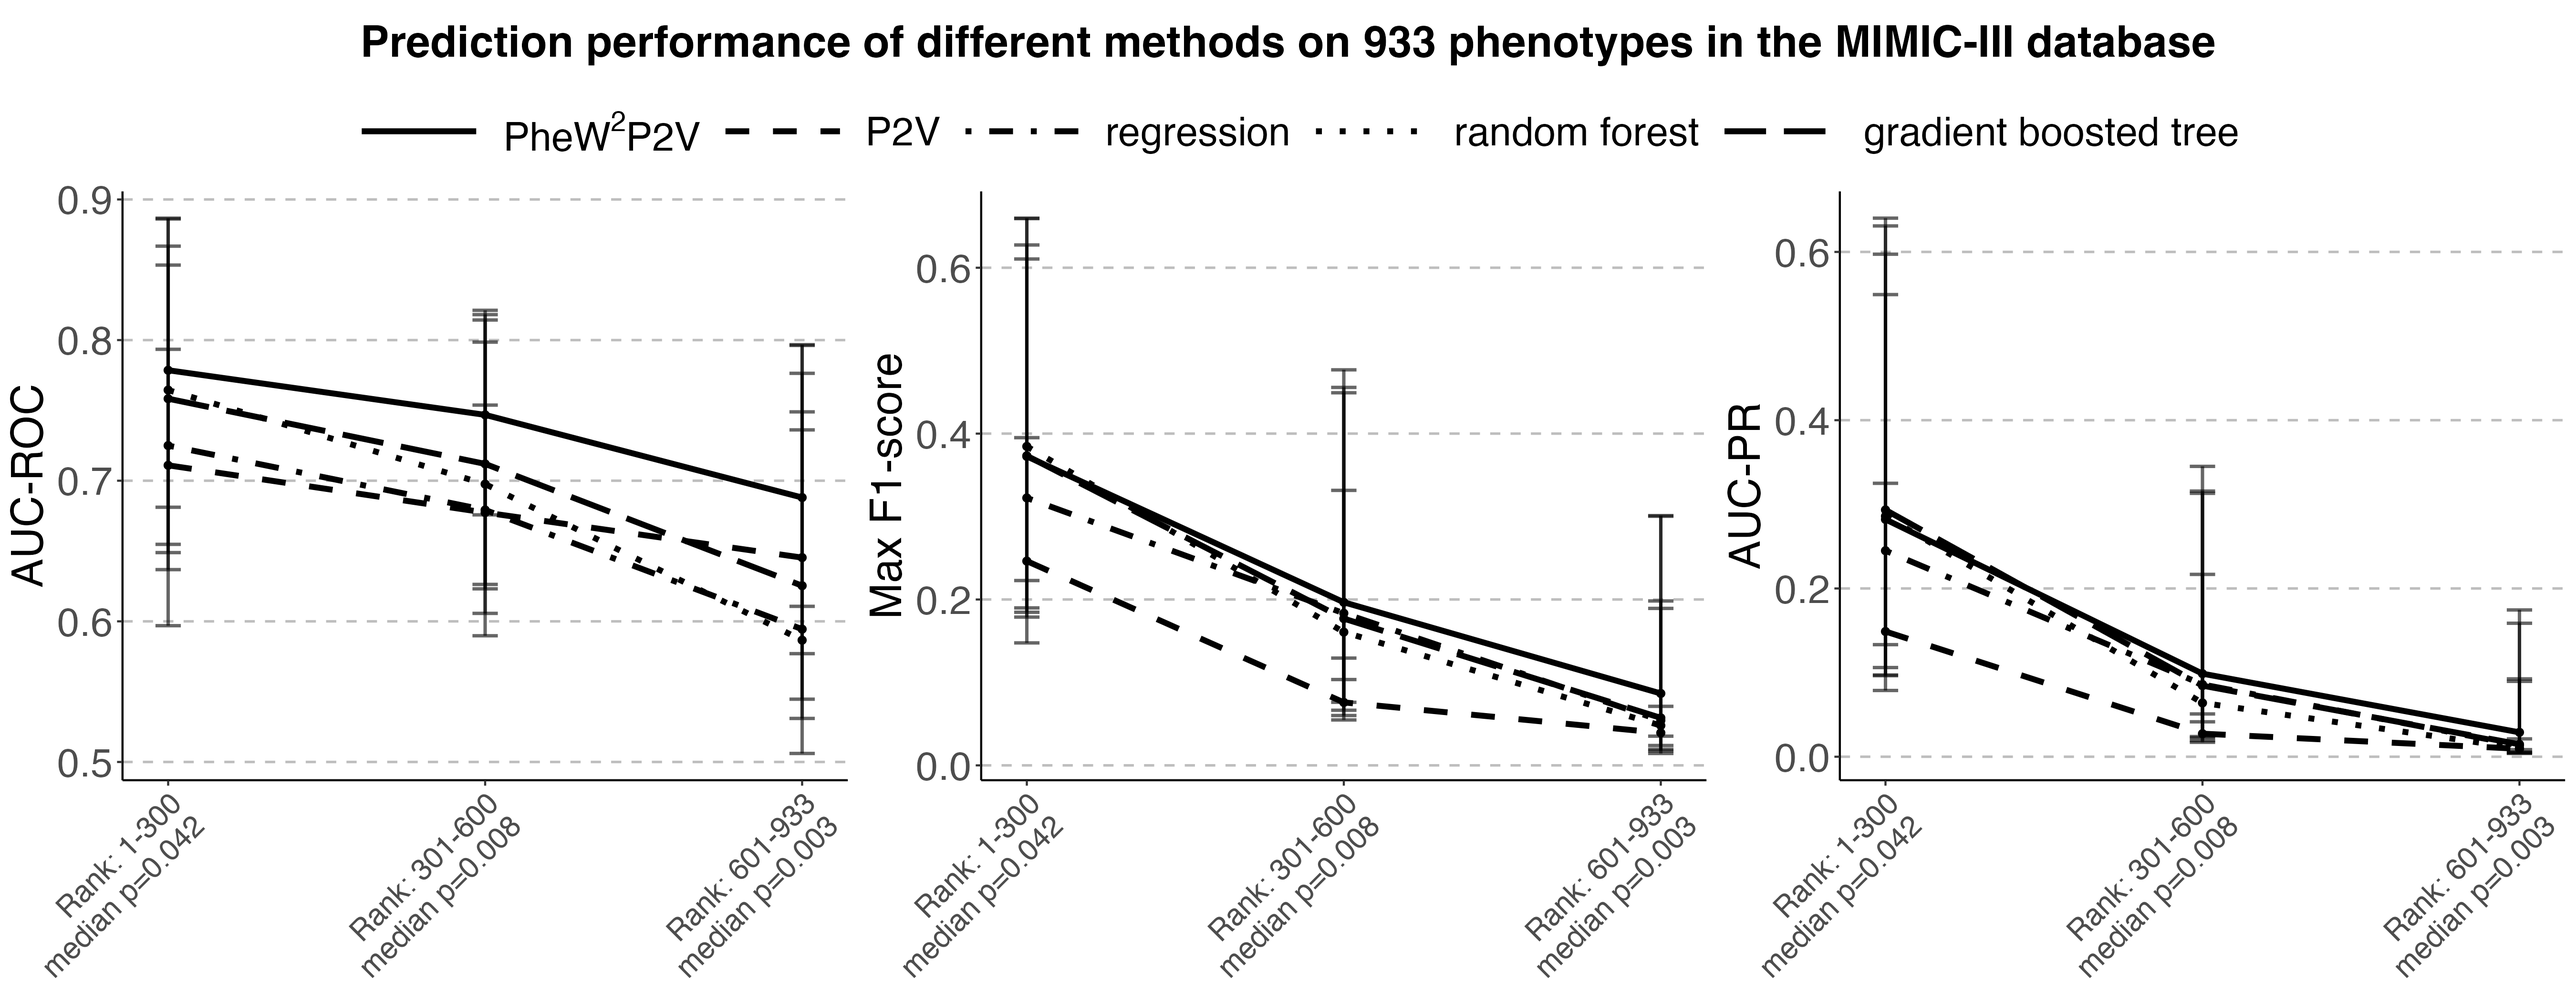
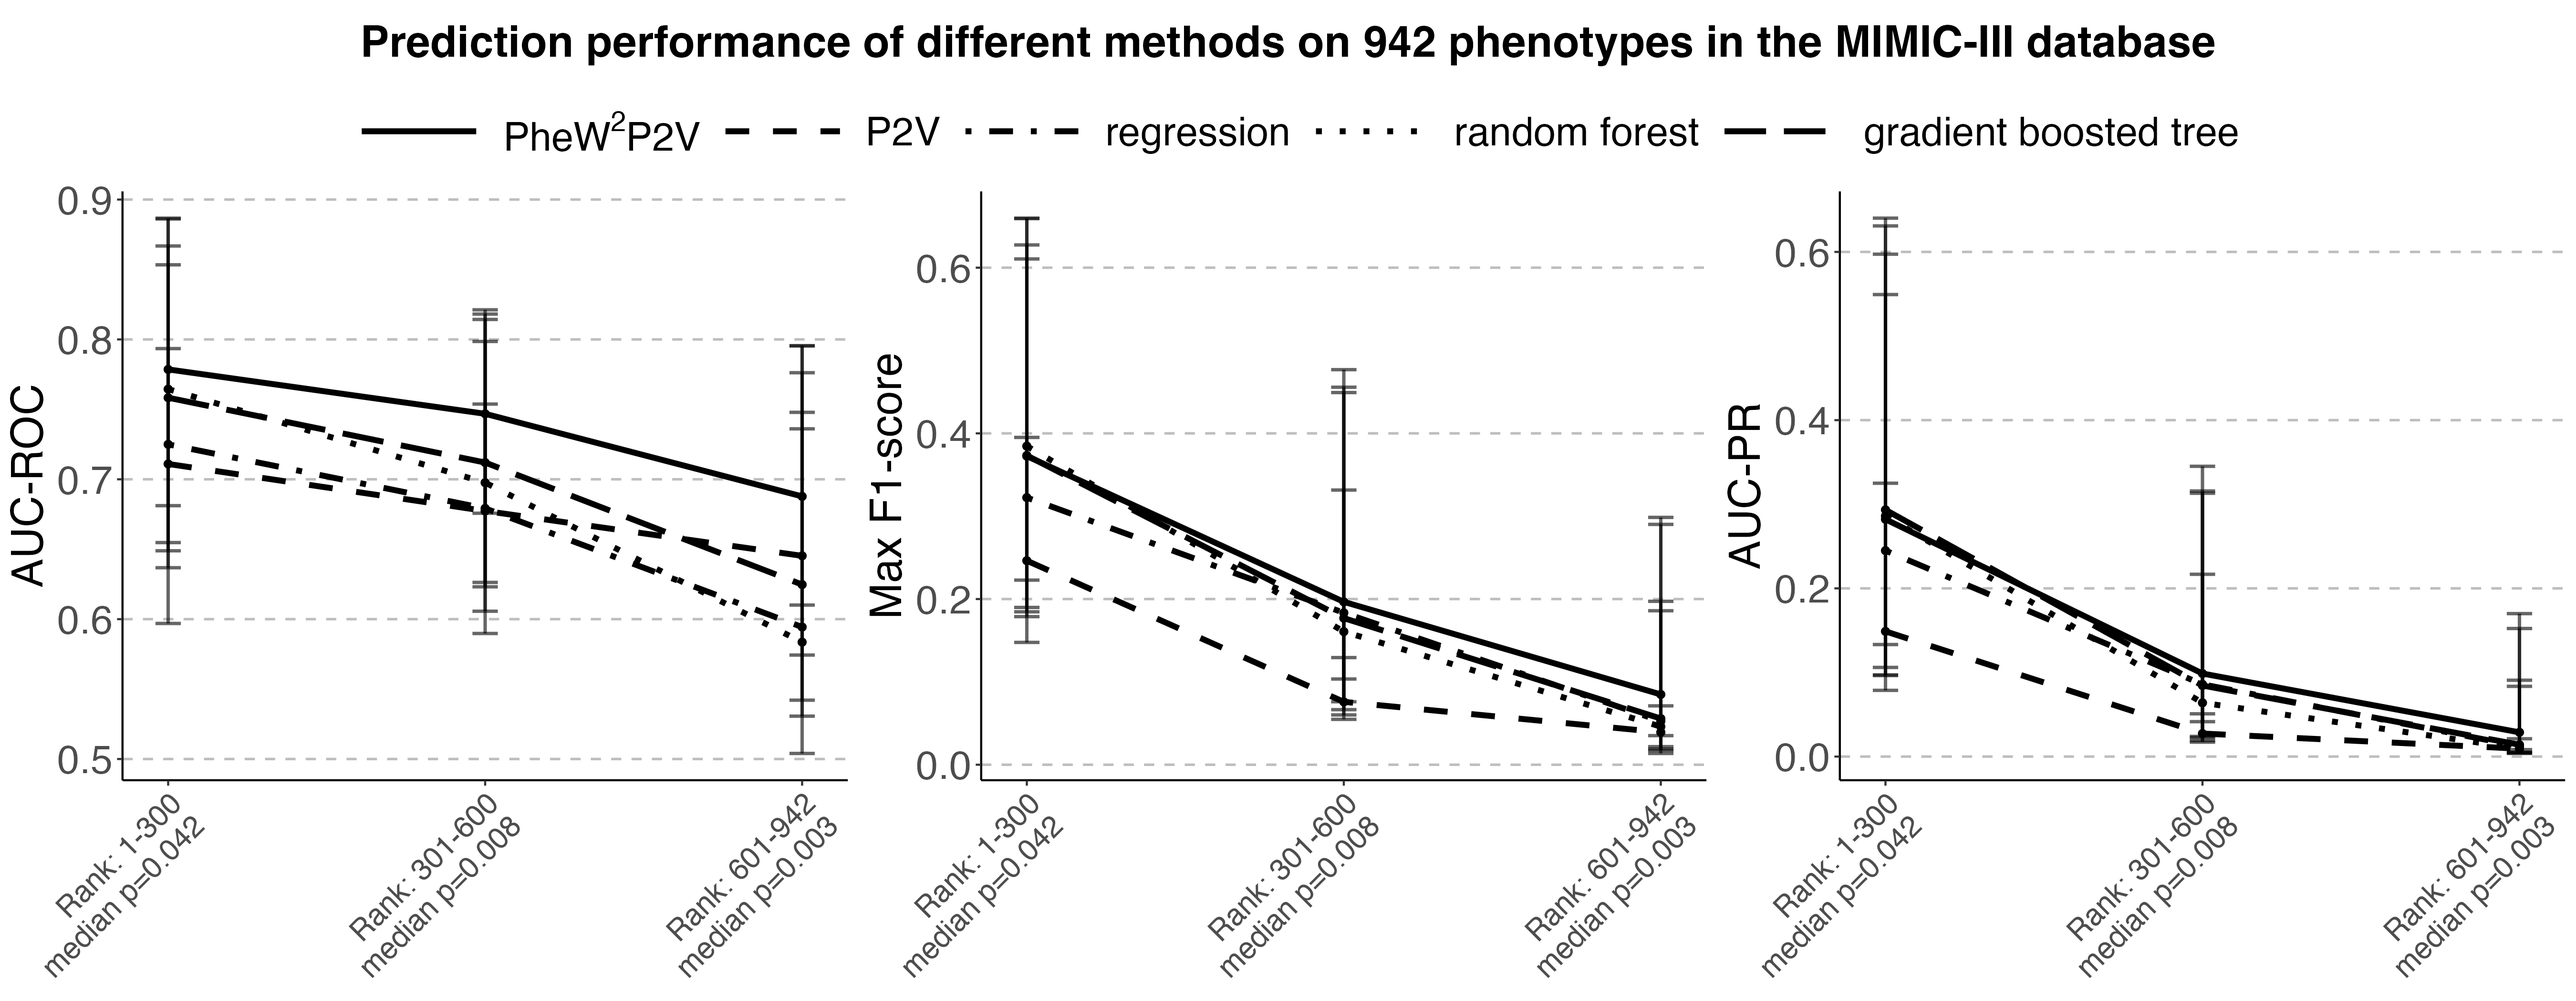
update

diff --git a/Code/MIMIC/MIMIC_preprocess_predictor_outcome.py b/Code/MIMIC/MIMIC_preprocess_predictor_outcome.py
@@ -125,7 +125,7 @@ output["case_p"] = output["cases"]/output["total"]
 output = output.sort_values(by=['case_p'], ascending=False)
 output["phecode"] = ["phecode_"+x for x in output.phecode]
 output = output.loc[:,["phecode", "cases", "ctrls", "total", "case_p", "description", "group"]]
-output = output.loc[output["cases"]>=5]
+output = output.loc[output["case_p"]>=0.0005]
 output.to_csv("Data/MIMIC_outcome_count.csv", index=False)
 
 
